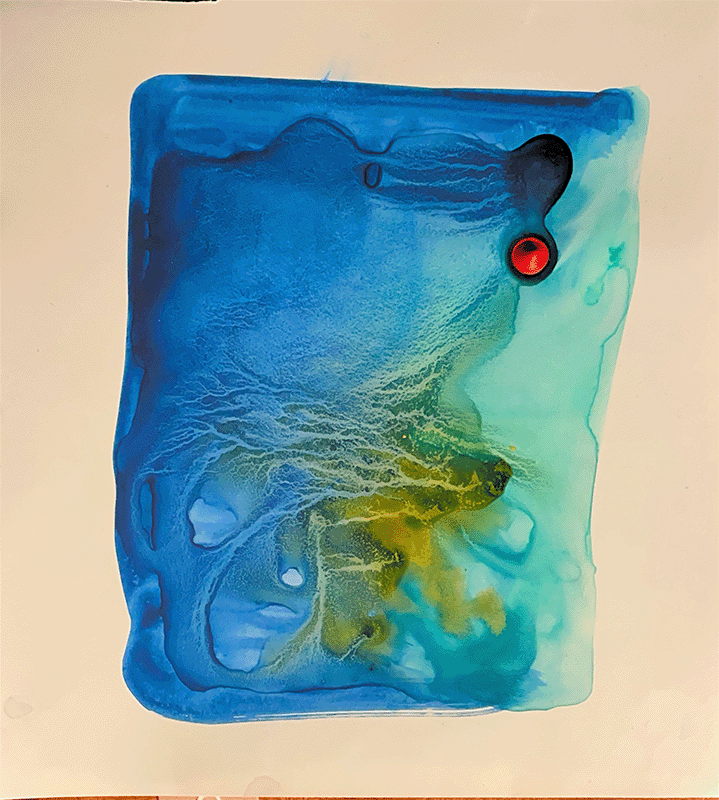
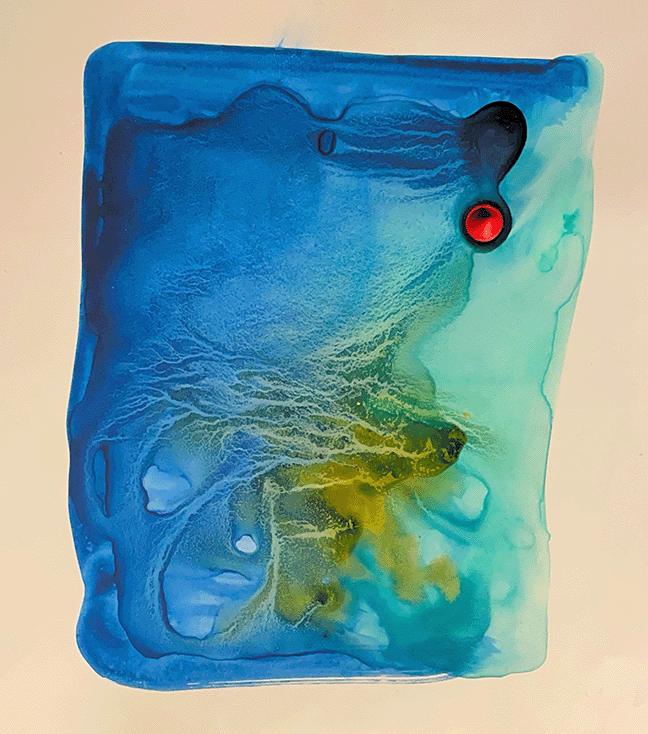
big offical , layout good

diff --git a/src/lib/artwork-data.ts b/src/lib/artwork-data.ts
@@ -34,8 +34,8 @@ export const finishedArtwork: Artwork[] = [
     medium: "Water Color",
     imageSrc: "/images/gallery/blob.png",
     blurDataUrl: placeholderBlur,
-    width: 719,
-    height: 800,
+    width: 648,
+    height: 734,
     description: "Abstract interpretation of city architecture.",
   },
   {
@@ -45,8 +45,8 @@ export const finishedArtwork: Artwork[] = [
     medium: "3D Render",
     imageSrc: "/images/gallery/claydogs.png",
     blurDataUrl: placeholderBlur,
-    width: 760,
-    height: 795,
+    width: 751,
+    height: 787,
   },
   {
     id: "artwork-4",
@@ -61,45 +61,28 @@ export const finishedArtwork: Artwork[] = [
   },
   {
     id: "artwork-5",
-    title: "Neon Nights",
-    year: 2024,
+    title: "Minis",
+    year: 2025,
     medium: "Digital Painting",
-    imageSrc: "/images/gallery/artwork-5.svg",
+    imageSrc: "/images/gallery/minis.jpg",
     blurDataUrl: placeholderBlur,
-    width: 1800,
-    height: 1200,
+    width: 1170,
+    height: 1213,
   },
   {
     id: "artwork-6",
-    title: "Woven Textures",
-    year: 2022,
+    title: "Face Remade",
+    year: 2025,
     medium: "Mixed Media on Paper",
-    imageSrc: "/images/gallery/artwork-6.svg",
+    imageSrc: "/images/gallery/remade_face.jpg",
     blurDataUrl: placeholderBlur,
-    width: 1000,
-    height: 1400,
+    width: 3021,
+    height: 3018,
     description: "Combining traditional weaving with contemporary painting.",
   },
-  {
-    id: "artwork-7",
-    title: "Algorithmic Patterns",
-    year: 2024,
-    medium: "Generative Art",
-    imageSrc: "/images/gallery/artwork-7.svg",
-    blurDataUrl: placeholderBlur,
-    width: 1400,
-    height: 1400,
-  },
-  {
-    id: "artwork-8",
-    title: "Stone Study",
-    year: 2023,
-    medium: "Charcoal on Paper",
-    imageSrc: "/images/gallery/artwork-8.svg",
-    blurDataUrl: placeholderBlur,
-    width: 1100,
-    height: 1500,
-  },
+
+  
+  
 ];
 
 // Sketches and work-in-progress for the Sketchbook page

diff --git a/src/components/gallery/GalleryGrid.tsx b/src/components/gallery/GalleryGrid.tsx
@@ -1,6 +1,7 @@
 "use client";
 
 import { useState } from "react";
+import Masonry from "react-masonry-css";
 import type { Artwork } from "@/lib/artwork-data";
 import ArtworkCard from "./ArtworkCard";
 import Lightbox from "./Lightbox";
@@ -12,10 +13,21 @@ interface GalleryGridProps {
 export default function GalleryGrid({ artwork }: GalleryGridProps) {
   const [selectedArtwork, setSelectedArtwork] = useState<Artwork | null>(null);
 
+  // Breakpoint configuration for masonry columns
+  const breakpointColumns = {
+    default: 3, // 3 columns on large screens
+    1024: 2,    // 2 columns on tablets
+    640: 1      // 1 column on mobile
+  };
+
   return (
     <>
       {/* Gallery Grid - Masonry Layout */}
-      <div className="grid grid-cols-1 sm:grid-cols-2 lg:grid-cols-3 auto-rows-[10px] gap-4">
+      <Masonry
+        breakpointCols={breakpointColumns}
+        className="flex -ml-4 w-auto"
+        columnClassName="pl-4 bg-clip-padding"
+      >
         {artwork.map((item) => (
           <ArtworkCard
             key={item.id}
@@ -23,7 +35,7 @@ export default function GalleryGrid({ artwork }: GalleryGridProps) {
             onClick={() => setSelectedArtwork(item)}
           />
         ))}
-      </div>
+      </Masonry>
 
       {/* Empty State */}
       {artwork.length === 0 && (

diff --git a/src/components/gallery/ArtworkCard.tsx b/src/components/gallery/ArtworkCard.tsx
@@ -9,15 +9,9 @@ interface ArtworkCardProps {
 }
 
 export default function ArtworkCard({ artwork, onClick }: ArtworkCardProps) {
-  // Calculate row span for masonry grid based on aspect ratio
-  const aspectRatio = artwork.height / artwork.width;
-  const baseWidth = 400; // approximate column width
-  const rowHeight = 10;
-  const rowSpan = Math.ceil(aspectRatio * baseWidth / rowHeight) + 4; // +4 for padding/gap
-
   return (
     <article
-      className="group relative cursor-pointer overflow-hidden w-full"
+      className="group relative cursor-pointer overflow-hidden w-full mb-4"
       onClick={onClick}
       role="button"
       tabIndex={0}
@@ -29,8 +23,7 @@ export default function ArtworkCard({ artwork, onClick }: ArtworkCardProps) {
       }}
       aria-label={`View ${artwork.title}`}
       style={{
-        aspectRatio: `${artwork.width}/${artwork.height}`,
-        gridRowEnd: `span ${rowSpan}`
+        aspectRatio: `${artwork.width}/${artwork.height}`
       }}
     >
       {/* Image Container with Dynamic Aspect Ratio */}

diff --git a/CLAUDE.md b/CLAUDE.md
@@ -98,3 +98,37 @@ Three tabs in order: **Home** → **Sketchbook** → **Contact**
 - **File Size**: Optimize to <500KB per image when possible
 - **Storage**: Store in `public/images/` or use a CMS/CDN
 
+## 8. Future TODOs / Alternative Approaches
+
+### Alternative Masonry Layout Options
+If `react-masonry-css` needs to be replaced in the future:
+
+**Option A: CSS Multi-Column Layout (No dependencies)**
+```css
+.gallery {
+  columns: 3;
+  column-gap: 1rem;
+}
+.gallery-item {
+  break-inside: avoid;
+  margin-bottom: 1rem;
+}
+```
+- Pros: No libraries, lightweight, native CSS
+- Cons: Fills columns vertically (top-to-bottom), not horizontally
+
+**Option C: CSS Grid Masonry (Complex but native)**
+```css
+.gallery {
+  display: grid;
+  grid-template-columns: repeat(3, 1fr);
+  auto-rows: 1px;
+  gap: 1rem;
+}
+.gallery-item {
+  grid-row-end: span [calculated];
+}
+```
+- Pros: No dependencies, horizontal flow
+- Cons: Complex row-span calculations, requires precise math
+
